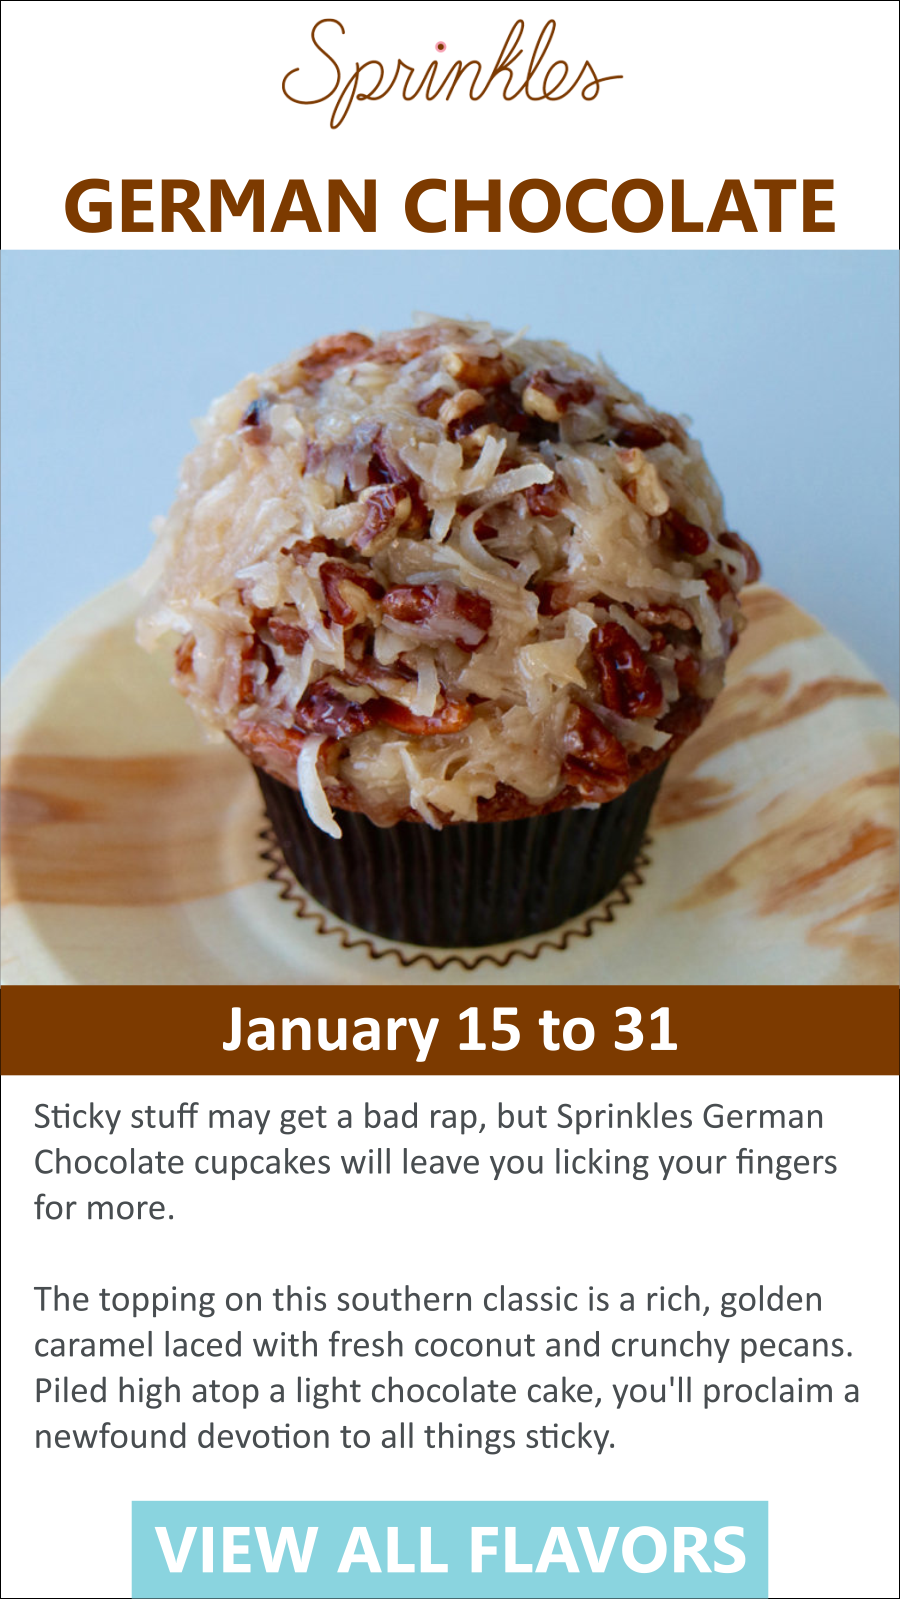
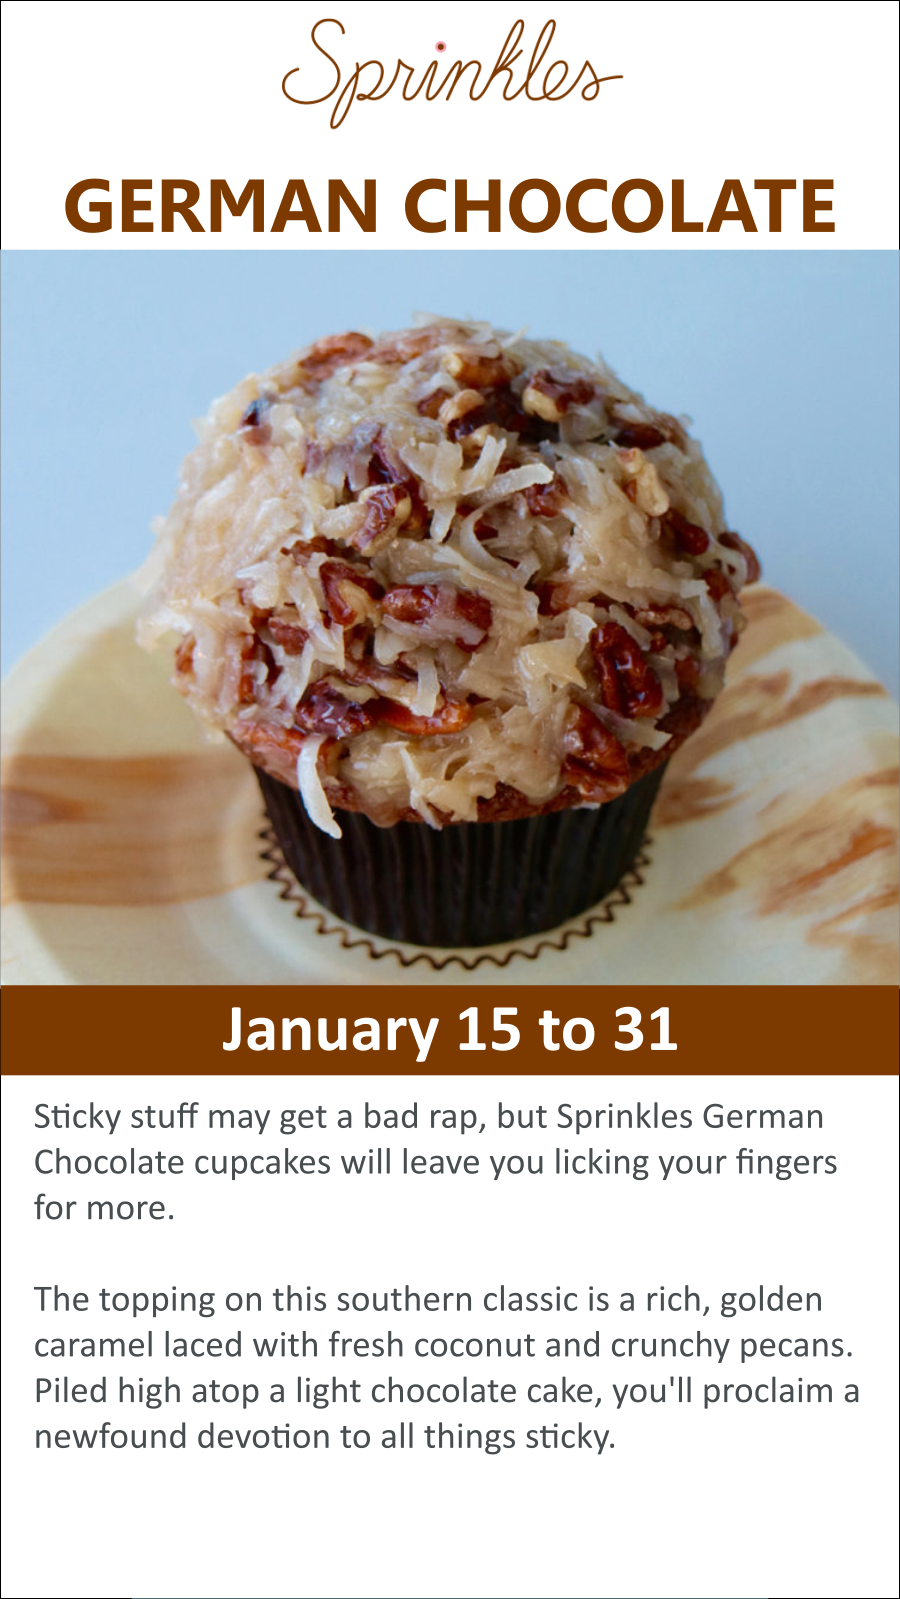
Refactor deck...  save to phone and flavors buttons.  Modify images to remove static button graphics.

Changed region(s): [[0.1244, 0.9193, 0.8711, 1.0]]

diff --git a/SprinklesDeck3.html b/SprinklesDeck3.html
@@ -1,0 +1,335 @@
+<html style="overflow: hidden;">
+<head>
+<meta name="viewport" content="width=device-width, initial-scale=1.0">
+<script src="https://use.fontawesome.com/e9a878b310.js"></script>
+<script src="./js/hammer.min.js"></script>
+<style media="screen">
+
+* {
+    box-sizing: border-box;
+  }
+
+@font-face {
+    font-family: Geometr415_Blk;
+    src: url("fonts/geometr415_blk.ttf") format('truetype');
+}
+
+
+@font-face {
+    font-family: Calibri;
+    src: url("fonts/Calibri.ttf") format('truetype');
+}
+
+@keyframes flipcardwiggle {
+0%  {transform: rotateY(0deg);}
+40% {transform: rotateY(0deg);}
+50% {transform: rotateY(5deg);)}
+60% {transform: rotateY(0deg);)}
+70% {transform: rotateY(5deg);)}
+80% {transform: rotateY(0deg);)}
+90% {transform: rotateY(5deg);}
+100% {transform: rotateY(0deg);} )
+
+}
+
+.cardtable {
+  padding-top: 2%;
+}
+
+.header {
+  height: 5%;
+  width: 100%;
+  padding-right: 5%;
+  padding-left: 5%;
+  font-family: calibri;
+  font-size: 75%;
+  background-color: white;
+  text-align: center;
+  display: flex;
+  justify-content: space-between;
+}
+
+.footer {
+  margin-top: 2%;
+  height: auto;
+  width: 100%;
+  padding-right: 10%;
+  padding-left: 10%;
+  font-family: calibri;
+  display: flex;
+  justify-content: space-between;
+  align-items: center;
+}
+
+.footer a{
+  color: black;
+}
+
+.navicon {
+  color: rgb(215,79,78);
+}
+
+.navfooter {
+  margin-top: 2%;
+  margin-bottom: 2%;
+  height: auto;
+  width: 100%;
+  padding-right: 33%;
+  padding-left: 33%;
+  display: flex;
+  justify-content: space-between;
+  align-items: center;
+}
+
+.deck { 
+  width: 100%;
+  height: 88vh;
+  position: relative;
+  display: block;
+  perspective: 800px;
+  overflow: hidden;
+}
+
+.card {
+  width: 49.5vh;
+  height: 100%;
+  margin: auto;
+  }
+
+.card a button {
+  border-width: 0;
+  font-family: Geometr415_Blk;
+  text-align: center;
+  vertical-align: middle;
+  font-size: 150%;
+  color:white; 
+  position:absolute; 
+  height:5%; top: 94.9%
+}
+
+.fixedcard {
+  overflow: hidden;
+}
+
+.scrollcard {
+  overflow: scroll;  
+}
+
+.flipcard {
+
+}
+
+.cardbuttons a {
+  display: flex;
+  justify-content: center;
+  align-items: center;
+  flex-grow: 1;
+  flex-basis: 0;
+  font-family: 'Geometr415_Blk';
+  font-size: 5vmin;
+  text-decoration: none;
+  text-transform: uppercase;
+  color: white;
+  height: 10vmin;
+  background-color: black;
+}
+
+
+.deck .cardIndexDecrementor {
+  position: absolute;
+  top: 50%;
+  left: 2%;
+  font-size:150%;
+}
+
+.deck .cardIndexIncrementor {
+   position: absolute;
+  top: 50%;
+  right: 2%;
+  font-size:150%; 
+}
+
+
+.buttonpanel {
+  display: flex;
+  width:100%;
+  height:10%;
+  justify-content: center;
+  align-items: center;
+}
+
+
+</style>
+</head>
+<body style="margin: 0;">
+  <div class="cardtable">
+
+  <!--<div class="header">
+    <div>Hello Laurie!</div>
+    <div><img src="img/---.png" style='width: auto; height:95%;'></div>
+    <div>Sign Out</div>
+  </div>-->
+
+	<div class="deck">
+    <i class="navicon fa cardIndexDecrementor fa-angle-left"></i>
+    <i class="navicon fa cardIndexIncrementor fa-angle-right"></i>
+    <!--
+		<div class="card scrollcard">
+      <h2 align="center" style="font-family: Geometr415_Blk">STEVIE'S HONEY BEE</h2>
+      <img src="img/honeybee.png" style="width:100%;height:auto%;">
+      <h3 style="font-family: Calibri; margin: 25px;">Ingredients</h3>
+      <p style="font-family: Calibri; margin: 25px;">
+        2 oz Nine Banded Whiskey<br>
+        1 oz Lemon Juice<br>
+        .75 oz Lavender Syrup<br>
+        <br>
+        Add Nine Banded, lemon juice and lavender syrup into a shaker, shake quickly, and pour over ice. Add your preference of lemon swath or wheel.<br>
+        <br>
+        For the lavender syrup: take a handful of dried lavender buds and steep them in a bottle with a 1:1 mixture of honey (sugar can be substituted) and water at room temperature.
+        <br>
+        <br>
+        If you can't find lavender buds in your local market, you can grow your own.
+        <br>
+        <br>
+        The most common form of lavender in cultivation is the common or English lavender Lavandula angustifolia (formerly named L. officinalis), but a wide range of cultivars can be found. Other commonly grown ornamental species are L. stoechas, L. dentata, and L. multifida (Egyptian lavender).
+        <br>
+        <br>
+        Lavenders flourish best in dry, well-drained, sandy or gravelly soils in full sun. All types need little or no fertilizer and good air circulation. In areas of high humidity, root rot due to fungus infection can be a problem. Organic mulches can trap moisture around the plants' bases, encouraging root rot. Gravelly materials such as crushed rocks give better results. It grows best in soils with a pH between 6 and 8.
+        <br><br>
+        The U.S. National Institutes of Health (NIH) states that lavender is considered likely safe in food amounts and possibly safe in medicinal amounts. NIH does not recommend the use of lavender while pregnant or breast-feeding because of lack of knowledge of its effects.
+      </p>
+      <div class="cardbuttons" style="margin: auto;">
+        <a href="img/honeybee.png">Save Recipe</a> 
+      </div>
+    </div>
+    -->
+
+    <div class="card fixedcard flipcard" > 
+      <img src="img/Sprinkles_loyalty_front.png" style="width:100%; height: 100%">
+        <a href="#">
+          <button style="background-color: rgb(227,161,168); width:50%; left:25%;">SAVE TO PHONE</button>
+        </a>   
+    </div>
+
+    <div class="card fixedcard">
+        <img src="img/Sprinkles_doublepoints.png" style="width:100%; height: 100%">
+    </div> 
+
+    <div class="card fixedcard">
+        <img src="img/Sprinkles_halfbirthday.png" style="width:100%; height: 100%">
+        <a href="#">
+          <button style="background-color: rgb(155,61,19); width:50%; left:25%;">SAVE TO PHONE</button>
+        </a>    
+    </div> 
+
+    <div class="card fixedcard">
+        <img src="img/Sprinkles_breakfast.png" style="width:100%; height: 100%">
+    </div> 
+
+     <div class="card fixedcard">
+        <img src="img/Sprinkles_germanchocolate.png" style="width:100%; height: 100%">
+        <a href="http://sprinkles.com/cupcakes/flavors/menu" target="_blank">
+        <button style="background-color: rgb(156,210,221); width:70%; left:15%;">VIEW ALL FLAVORS</button></a>
+
+    </div>  
+
+     <div class="card fixedcard">
+        <img src="img/Sprinkles_findstore.png" style="width:100%; height: 100%">
+    </div> 
+</div>
+
+<div class = "navfooter">
+</div>  
+<!--
+    <div class="footer">
+
+        <a href="https://ninebandedwhiskey.com/blogs/news" ><i class="fa fa-book" aria-hidden="true"></i></a>
+        <a href="https://ninebandedwhiskey.com/collections/cocktail-recipes" ><i class="fa fa-glass" aria-hidden="true"></i></a>
+
+      
+        <a href="https://ninebandedwhiskey.com/a/tasting-room#findabottle" ><i class="fa fa-map-o" aria-hidden="true"></i></a>
+        <a href="http://9bandedwhiskey.com" ><i class="fa fa-home" aria-hidden="true"></i></a>
+
+
+          <a href="https://www.facebook.com/NineBandedWhiskey/" ><i class="fa fa-facebook-square fa" ></i></a>
+          <a href="https://twitter.com/ninebanded?lang=en" ><i class="fa fa-twitter fa"></i></a>
+    </div>
+-->
+
+
+</body>	
+
+<script>
+  var deck = document.querySelector(".deck");
+  var currentCardIndex = 0;
+  var cards = document.querySelectorAll(".card");
+  var cardCount = cards.length;
+  var navFooter = document.querySelector(".navfooter");
+  var navIcons = [];
+
+  function decrementCardIndex() {
+    if (currentCardIndex <= 0) {
+      currentCardIndex = cardCount;
+    }
+    currentCardIndex--;
+  }
+
+  function incrementCardIndex() {
+    if (currentCardIndex >= cardCount - 1) {
+      currentCardIndex = -1;
+    }
+    currentCardIndex++;
+  }
+
+  function initializeNavDots(navFooter, navIcons) {
+    cards.forEach(
+      function(each, index) {
+        navicon = document.createElement("i");
+        navicon.className = (index == currentCardIndex ? "navicon fa fa-circle" : "navicon fa fa-circle-o");
+        navicon.style = "font-size: 50%;";
+        navFooter.appendChild(navicon);
+        navIcons[index] = (navicon);
+      }
+    )
+  }
+
+  function setCardVisibility(cards, navIcons) {
+    cards.forEach(
+      function (each,index){
+        if (index == currentCardIndex) {
+          each.hidden = false;
+          each.scrollTop = 0;
+          if (each.className.includes("flipcard")) {
+            navIcons[index].className = "navicon fa fa-reply";
+            navIcons[index].style = "font-size: 100%;"
+          }
+          else {  
+            navIcons[index].className = "navicon fa fa-circle" ;
+          }
+        }
+        else {
+          each.hidden = true;
+          navIcons[index].className = "navicon fa fa-circle-o";
+          if (each.className.includes("flipcard")) {
+              navIcons[index].style = "font-size: 50%;"
+          } 
+        }  
+      }
+    )
+  }
+
+  var hammered = Hammer(deck);
+  hammered.on('swiperight', function(event) {decrementCardIndex(); setCardVisibility(cards, navIcons)});
+  hammered.on('swipeleft',function(event) {incrementCardIndex(); setCardVisibility(cards, navIcons)});
+
+  initializeNavDots(navFooter,navIcons);
+  setCardVisibility(cards,navIcons);
+
+
+  document.querySelector(".deck .cardIndexDecrementor").addEventListener('click', function(event) {decrementCardIndex(); setCardVisibility(cards, navIcons);})
+  document.querySelector(".deck .cardIndexIncrementor").addEventListener('click', function(event) {incrementCardIndex(); setCardVisibility(cards, navIcons);})
+
+
+  	
+</script>
+</html>

diff --git a/index.html b/index.html
@@ -49,7 +49,7 @@ ul li{
 	</ul>
 	<ul>
 		<li>
-			<a href="SprinklesDeck.html"><h1>Sprinkles Deck</h1></a>
+			<a href="SprinklesDeck3.html"><h1>Sprinkles Deck</h1></a>
 		</li>
 	</ul>
 </div>
